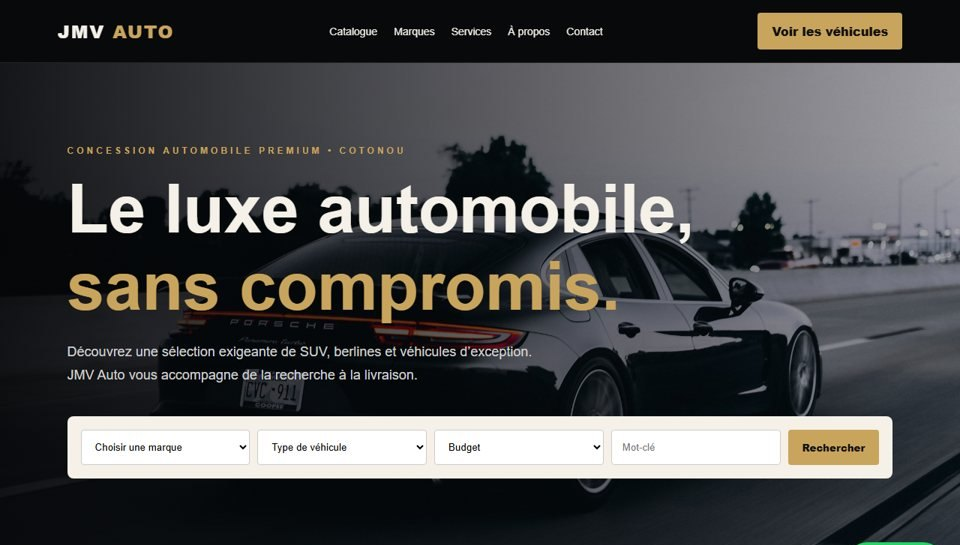
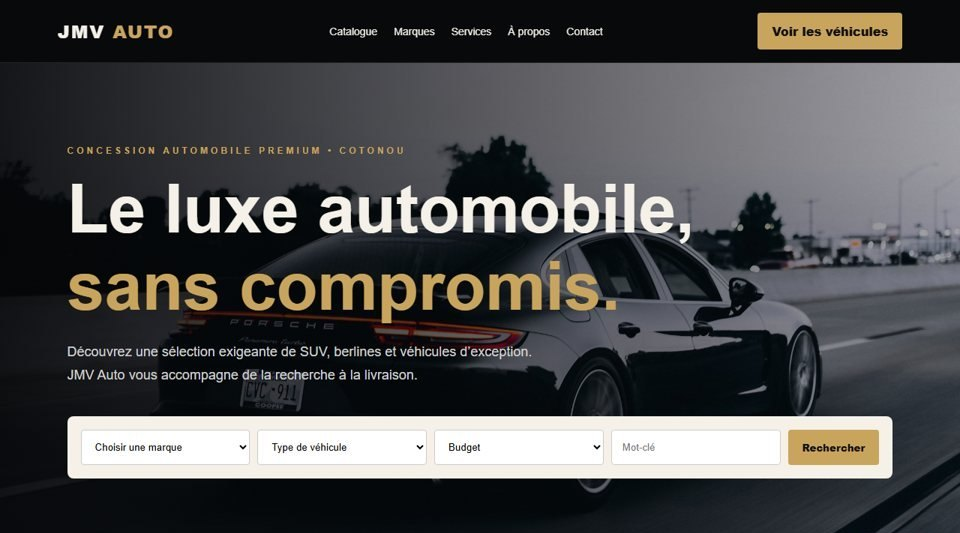
Portfolio: capture JMV Auto, liens GitHub

diff --git a/index.html b/index.html
@@ -86,6 +86,7 @@
     </div>
     <ul class="social">
       <li><a href="https://www.linkedin.com/in/jean-marie-vianney-sedjame-5515733a5" target="_blank" rel="noopener">LinkedIn <span aria-hidden="true">↗</span></a></li>
+      <li><a href="https://github.com/jeanmarie2006" target="_blank" rel="noopener">GitHub <span aria-hidden="true">↗</span></a></li>
       <li><a href="https://wa.me/2290129179162" target="_blank" rel="noopener">WhatsApp <span aria-hidden="true">↗</span></a></li>
     </ul>
   </div>
@@ -280,7 +281,7 @@
 
     <article class="card reveal" data-cat="perso online" style="--a:#d4b06a;--b:#f59e0b">
       <a class="card__cover" href="https://github.com/jeanmarie2006/jmv-auto" target="_blank" rel="noopener" aria-label="Voir le code de JMV Auto sur GitHub">
-        <img src="assets/jmv.jpg" alt="Page d'accueil de JMV Auto : « Le luxe automobile, sans compromis » avec la recherche de véhicules" loading="lazy" width="960" height="545">
+        <img src="assets/jmv.jpg" alt="Page d'accueil de JMV Auto : « Le luxe automobile, sans compromis » avec la recherche de véhicules" loading="lazy" width="960" height="533">
         <span class="card__go" aria-hidden="true">↗</span>
       </a>
       <div class="card__body">
@@ -356,6 +357,7 @@
       <li><span>Téléphone</span><a href="tel:+2290129179162">+229 01 29 17 91 62</a></li>
       <li><span>Ville</span><b>Cotonou et Calavi, Bénin</b></li>
       <li><span>LinkedIn</span><a href="https://www.linkedin.com/in/jean-marie-vianney-sedjame-5515733a5" target="_blank" rel="noopener">Jean-Marie Vianney Sedjame</a></li>
+      <li><span>GitHub</span><a href="https://github.com/jeanmarie2006" target="_blank" rel="noopener">jeanmarie2006</a></li>
       <li><span>CV</span><a href="assets/CV_Sedjame_Vianney.pdf" download>Télécharger (PDF)</a></li>
     </ul>
   </div>

diff --git a/style.css b/style.css
@@ -349,7 +349,7 @@ button { font: inherit; color: inherit; cursor: pointer; background: none; borde
 .contact__title { font-size: clamp(44px, 9.5vw, 132px); font-weight: 800; letter-spacing: -.05em; line-height: .95; margin: 6px 0 26px; }
 .contact__text { color: #b8c4ff; font-size: 1.15rem; margin-bottom: 30px; }
 .contact__actions { display: flex; flex-wrap: wrap; gap: 12px; justify-content: center; }
-.contact__list { display: grid; grid-template-columns: repeat(4, 1fr); gap: 12px; margin-top: clamp(32px, 6vw, 64px); text-align: left; }
+.contact__list { display: grid; grid-template-columns: repeat(auto-fit, minmax(190px, 1fr)); gap: 12px; margin-top: clamp(32px, 6vw, 64px); text-align: left; }
 .contact__list li { padding: 16px 18px; border-radius: 18px; background: rgba(255, 255, 255, .05); border: 1px solid var(--line); display: flex; flex-direction: column; gap: 2px; min-width: 0; }
 .contact__list span { font-family: var(--mono); font-size: .68rem; letter-spacing: .12em; text-transform: uppercase; color: var(--c1); }
 .contact__list a, .contact__list b { font-weight: 700; overflow-wrap: anywhere; }
